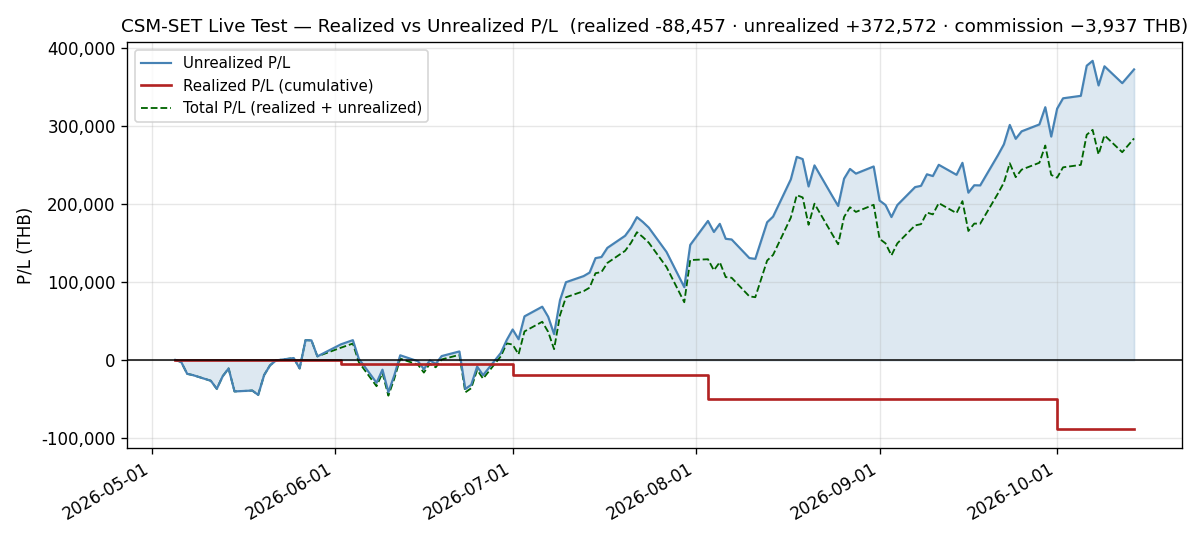
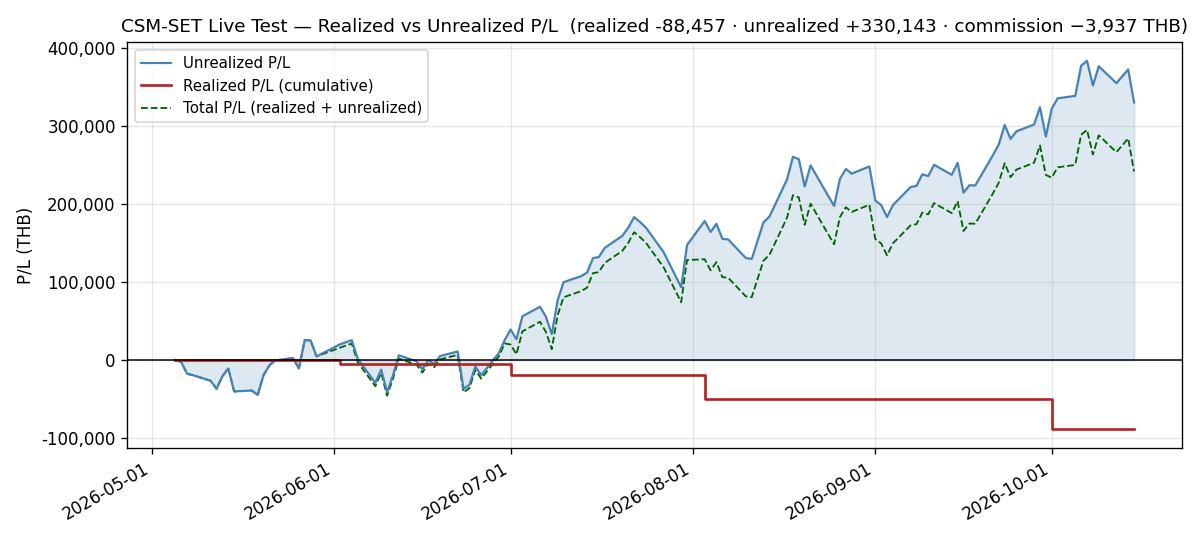
docs(live-test): add daily log for 2026-10-15 — NAV −3.03%, the largest session loss since 2026-09-01; no name rose
NAV 1,360,075.89 THB (−42,429.00, −3.0252%), Total Return on NAV +21.44%,
breadth 0 up / 9 down / 1 flat. SMT −7.14% is its worst session since it
entered the book on 2026-08-03. ETRON's excess narrowed to 14,933.44 THB by
losing value; CNT's gap under the floor deepened to 12,311.79 THB (both
accepted, TK-0279). The first scheduled refresh on the image rebuilt
2026-10-14 (lock b1fdf98) ran clean. pnl.csv +1 row (112), the P/L chart
regenerated (only its hash moved), graphs README History, header and check
rows updated.

Claude-Session: https://claude.ai/code/session_01VKyqnmKmz6Hh9ErHRFMhFr

diff --git a/docs/live-test/daily/2026-10-15.md b/docs/live-test/daily/2026-10-15.md
@@ -1,0 +1,171 @@
+# Daily Log — 2026-10-15 (Thursday)
+
+**As of:** 2026-10-15, Asia/Bangkok
+**Phase:** C — Extended Observation
+**Day:** 113 / 50 trading days remaining in 2026
+**Status:** 🔴 **PRE-REGISTRATION HISTORY — SEEN, NOT SCORED.** The operator's 2026-09-11 forward-only decision stands and **no scoring criteria have been pre-registered since**, so every figure below carries that label. 🔴 **NAV closes at 1,360,075.89 THB, down −42,429.00 (−3.0252%)** with no trades — **the largest session loss since 2026-09-01** and **the lowest close since 2026-10-01** — and stands **53,408.00 (−3.7785%) below the 2026-10-07 high**. Total Return on NAV is **+21.44%**. Breadth is **0 up, 9 down, 1 flat** against a SET that fell **−0.1821%**. 🔴 **SMT −7.14% to 7.15, its worst session since it entered the book on 2026-08-03**, supplied 26.44% of the loss, and the three ETRON names together 57.67%. 🔴 **CNT −3.77% to 3.06, its worst session and lowest close since it entered the book**, and **its gap under the 5% floor is the deepest of the breach at 12,311.79 THB**. 🟢 **ETRON's excess narrowed to 14,933.44 THB, its narrowest since 2026-10-02**, by losing value, not by a trade. 🟢 **The first scheduled refresh on the rebuilt image ran clean.**
+
+---
+
+## Execution Summary
+
+**No trades today.** The October rotation was executed at the **2026-10-01 ATO** (SELL MGC, BUY CNT; `configs/live_portfolio.yaml` at `715eeb3`), so the file is unchanged since then and remains valid. Realized P/L for the session is **0.00 THB** and no commission was paid. **Neither end of the band creates a trade, and neither does the sector cap**: both are applied when the book is constructed, and there is no high-water-mark rule. The next rebalance evaluation is **2026-10-30**, nine sessions away.
+
+---
+
+## Portfolio Snapshot
+
+> 🔴 **Every figure in this section is PRE-REGISTRATION HISTORY — NOT SCORED.** It is produced from the **reconstructed series** (`csm.adapters.hooks._reconstruct_live_equity`, which reprices `configs/live_portfolio.yaml` against `data/processed/prices_latest.parquet`) and reconciled against **`db_gateway.daily_performance`**. Where a number below is quoted from a stored series, the series is named.
+
+`Avg Cost` is the commission-inclusive per-share basis carried from `configs/live_portfolio.yaml` (4-decimal precision); `Cost Basis = shares × Avg Cost`, and `U.PL % = MV / Cost Basis − 1`. Per-symbol values reproduce the broker statement exactly.
+
+| # | Symbol | Shares | Avg Cost | Last Price | Market Value (THB) | Cost Basis (THB) | U.PL % |
+|---|--------|-------:|---------:|-----------:|--------------------:|-----------------:|-------:|
+| 1 | KCE | 2,600 | 39.0655 | 74.75 | 194,350.00 | 101,570.30 | +91.35% |
+| 2 | GUNKUL | 30,800 | 2.9246 | 4.96 | 152,768.00 | 90,077.68 | +69.60% |
+| 3 | INSET | 42,000 | 3.0848 | 4.54 | 190,680.00 | 129,561.60 | +47.17% |
+| 4 | HANA | 3,000 | 35.8070 | 50.25 | 150,750.00 | 107,421.00 | +40.34% |
+| 5 | IRPC | 56,600 | 2.3037 | 2.88 | 163,008.00 | 130,389.42 | +25.02% |
+| 6 | EASTW | 24,000 | 4.2672 | 5.00 | 120,000.00 | 102,412.80 | +17.17% |
+| 7 | EPG | 17,300 | 5.9099 | 6.50 | 112,450.00 | 102,241.27 | +9.98% |
+| 8 | SMT | 20,400 | 5.8097 | 7.15 | 145,860.00 | 118,517.88 | +23.07% |
+| 9 | FORTH | 5,300 | 16.1270 | 13.80 | 73,140.00 | 85,473.10 | −14.43% |
+| 10 | CNT | 18,200 | 3.3456 | 3.06 | 55,692.00 | 60,889.92 | −8.54% |
+
+### Portfolio summary
+
+| Metric | Value |
+|--------|-------|
+| Total Cost Basis | 1,028,554.97 THB |
+| Total Market Value | 1,358,698.00 THB |
+| Unrealized P/L | +330,143.03 THB (+32.10%) |
+| Realized P/L (today) | **0.00 THB** |
+| Realized P/L (cumulative, since inception) | **−88,456.67 THB** |
+| Commission paid (cumulative) | **−3,936.97 THB** |
+
+### Account summary
+
+| Metric | Value |
+|--------|-------|
+| Remaining Cash | 1,377.89 THB |
+| Total NAV | 1,360,075.89 THB |
+| Total Return on NAV | +21.44% |
+
+> **Cost-basis note:** Total Cost Basis is unchanged at **1,028,554.97 THB** since the 2026-10-01 rotation, and the reconciliation delta against Σ per-symbol (`shares × avg_cost`, 4-dp) is **0.00 THB**.
+>
+> ⚠ **Above/below cost: 8 up / 2 down, unchanged**, with only **FORTH** and **CNT** below. 🔴 **CNT's −8.54%** is its lowest since it entered the book, past the −4.95% of 2026-10-14. **SMT's +23.07%** is its lowest since 2026-10-05, **KCE's +91.35%** its lowest since 2026-09-28, and **FORTH's −14.43%** its lowest since 2026-10-05.
+>
+> **Dispersion narrowed to 105.78pp** (KCE +91.35% to FORTH −14.43%), from 110.93pp, the narrowest since 2026-10-02: the leader KCE lost **6.39pp** of cost and the laggard FORTH lost **1.24pp**.
+>
+> **Total P/L check:** realized + unrealized = −88,456.67 + 330,143.03 = **+241,686.36 THB**, down from +284,115.36 by exactly the −42,429.00 session move.
+
+---
+
+## Day-over-Day Change (vs Wednesday October 14)
+
+| Symbol | Oct 14 Close | Oct 15 Close | Change | Change % | MV Contribution (THB) |
+|--------|-------------:|-------------:|-------:|---------:|----------------------:|
+| EASTW | 5.00 | 5.00 | 0.00 | 0.00% | 0.00 |
+| GUNKUL | 4.98 | 4.96 | -0.02 | -0.40% | -616.00 |
+| FORTH | 14.00 | 13.80 | -0.20 | -1.43% | -1,060.00 |
+| CNT | 3.18 | 3.06 | -0.12 | -3.77% | -2,184.00 |
+| IRPC | 2.92 | 2.88 | -0.04 | -1.37% | -2,264.00 |
+| EPG | 6.65 | 6.50 | -0.15 | -2.26% | -2,595.00 |
+| KCE | 77.25 | 74.75 | -2.50 | -3.24% | -6,500.00 |
+| HANA | 52.50 | 50.25 | -2.25 | -4.29% | -6,750.00 |
+| INSET | 4.76 | 4.54 | -0.22 | -4.62% | -9,240.00 |
+| SMT | 7.70 | 7.15 | -0.55 | -7.14% | -11,220.00 |
+| **Total** | | | | **-3.03%** | **-42,429.00** |
+
+**Breadth: 0 up, 9 down, 1 flat.**
+
+> The `Change %` on the Total row is the **market-value** change (−42,429.00 / 1,401,127.00 = −3.0282%), not the NAV change (−42,429.00 / 1,402,504.89 = −3.0252%). The two differ only because cash sits in the NAV denominator and not in the market-value one.
+
+**No name rose: nine fell and EASTW closed unchanged at 5.00**, the first session without a riser since 2026-10-08, when all ten fell. **SMT −7.14% (−11,220.00)** closed at **7.15** in its **worst session since it entered the book on 2026-08-03**, at its lowest close since 2026-10-05, and supplied 26.44% of the loss. **INSET −4.62% (−9,240.00)** and **HANA −4.29% (−6,750.00)** each had their worst session since 2026-09-01; INSET closed at its lowest since 2026-09-17 and HANA at its lowest since 2026-09-21. **KCE −3.24% (−6,500.00)**, its worst since 2026-10-12, closed at its lowest since 2026-09-28. **CNT −3.77% (−2,184.00)** closed at **3.06** in **its worst session and at its lowest close since it entered the book on 2026-10-01**. **EPG −2.26% (−2,595.00)**, **IRPC −1.37% (−2,264.00)**, **FORTH −1.43% (−1,060.00)** and **GUNKUL −0.40% (−616.00)** completed the fallers. The three ETRON names lost **24,470.00** together, 57.67% of the session. **The book fell −3.0252% against a SET that fell −0.1821%**, a **−2.8431pp** difference that is a same-session arithmetic result, not a performance comparison (Market Context).
+
+---
+
+## Market Context
+
+| Indicator | Value | Source |
+|-----------|-------|--------|
+| SET Index | 1,573.01 | tvkit (TradingView) |
+| SET Open / High / Low | 1,558.17 / 1,573.01 / 1,557.67 | tvkit |
+| SET 200-day SMA | 1,499.5689 | tvkit (TradingView) |
+| Regime Estimate | BULL | SET +4.90% above SMA200 |
+
+> ⚠ **This is context, NOT a benchmark comparison, and it must not be read as one.** `SET:SET` is a **price index**; the strategy series above is priced on **dividend-adjusted** bars (since `e04a292`, 2026-08-09). The two are not on the same basis, the difference is one-sided in the strategy's favour, and it is not small — measured 2026-09-11 over 2024-03-19 → 2026-09-10, the dividend adjustment is worth **+12.09 percentage points** on this universe, roughly **+4.8%/yr**. The engine's own benchmark loader is also given **no date bounds**, so it compares **600 index points — from 2024-04-25 in today's panel, a start that moves forward one session per session** — against a strategy series that starts at the 2026-10-01 `entry_date`. **No alpha, excess return or outperformance figure is computed anywhere in this log.**
+
+---
+
+## Regime State
+
+- **Detected regime:** BULL — SET (1,573.01) is above SMA200 (1,499.5689) by +4.8975%
+- **SMA200 position:** 1,499.5689 — SET closing at 1,573.01
+- **3-month return:** −2.99% (window-sensitive — see Notes)
+- **No regime-driven action.** The regime filter is evaluated at the month-end rebalance, not intra-month. The next evaluation is **2026-10-30**.
+
+**The SET path from the 2026-09-08 high reads 1,621.89 → 1,617.89 → 1,615.07 → 1,604.52 → 1,591.07 → 1,578.66 → 1,562.73 → 1,583.34 → 1,584.15 → 1,598.03 → 1,604.44 → 1,610.70 → 1,602.58 → 1,607.63 → 1,602.37 → 1,594.30 → 1,559.01 → 1,563.91 → 1,571.62 → 1,576.45 → 1,582.22 → 1,584.63 → 1,570.61 → 1,577.65 → 1,571.74 → 1,575.88 → 1,573.01** — a **−2.87 point, −0.1821%** session, the index's worst since 2026-10-12, closing at its lowest since 2026-10-12 and leaving it **−3.0138%** below the 2026-09-08 high. Today's range was **15.34 points**, against 14.02 the prior session; the index opened at 1,558.17 and closed at the session high. **Cushion fell 5.1998% → 4.8975%, a −0.3023pp step**, as SMA200 rose again to **1,499.5689** (+1.5808). **A BULL→BEAR crossing needs the index 73.44 points lower — a further −4.67% at today's SMA200.**
+
+The 3-month figure fell from −2.02% to −2.99%, its start bar moving from 2026-07-09 (1,608.30) to 2026-07-10 (1,621.55).
+
+---
+
+## Sector Concentration
+
+Groupings are those of the 2026-10-01 rotation (CONS for CNT, SET-official) and are unchanged today; percentages are directly comparable to the prior session for every sleeve.
+
+| Sector | Market Value (THB) | % of NAV | Limit | Status |
+|--------|--------------------:|---------:|-------|--------|
+| Energy & Utilities (ENERG) | 435,776 | 32.0406% | 35% | OK — 40,250.56 THB of headroom |
+| Electronic Components (ETRON) | 490,960 | 36.0980% | 35% | 🔴 **OVER — 14,933.44 THB, accepted known violation** |
+| ICT | 263,820 | 19.3974% | 35% | OK |
+| Construction Materials (CONMAT) | 112,450 | 8.2679% | 35% | OK |
+| Construction Services (CONS) | 55,692 | 4.0948% | 5% floor | 🔴 **UNDER — 12,311.79 THB, accepted known violation** |
+
+🟢 **ETRON's excess narrowed to its narrowest since 2026-10-02**, from the 24,553.29 of 2026-10-14, the furthest of the holding period. It fell **−0.6527pp to 36.0980%**, its lowest weight since 2026-10-02, and the excess shrank **24,553.29 → 14,933.44 THB**: the sleeve's market value fell 24,470.00 (SMT −11,220.00, HANA −6,750.00, KCE −6,500.00) while the cap fell 14,850.15 with NAV. **It narrowed by losing value, not by a trade, and it remains over the cap.** [[TK-0279]]
+
+🔴 **CNT's gap is the deepest of the breach**, past the 12,249.24 of 2026-10-14. CONS fell **−0.0318pp to 4.0948%**, the lowest weight of the breach, and the gap grew **12,249.24 → 12,311.79 THB**: CNT's −2,184.00 outweighed a floor that fell 2,121.45 with NAV. **CNT clears at 3.7721, +23.27%.** [[TK-0279]]
+
+**ENERG rose +0.7640pp to 32.0406%**, its highest since 2026-10-05, although none of its names rose: the sleeve lost 2,880.00 (−0.66%) while NAV lost 3.03%. **ICT fell −0.1476pp to 19.3974%** on INSET, its lowest since 2026-10-05. **CONMAT rose +0.0651pp to 8.2679%** because EPG fell less than NAV. The two large sleeves hold **68.1386% of NAV** together.
+
+**At the ceiling end, KCE remains the largest position** — **14.2896%**, 9,661.38 THB inside the 15% ceiling, over at **79.1217 (+5.85%)** — 3,670.00 THB above INSET, at **14.0198%**, 13,331.38 THB inside, over at **4.9134 (+8.22%)**. 🟢 **At the floor end, FORTH is 5.3776%, 5,136.21 THB above the 5% floor, and goes under at 12.7799 (−7.39%).**
+
+---
+
+## Risk Notes
+
+1. 🔴 **PRE-REGISTRATION HISTORY — SEEN, NOT SCORED (operator decision, 2026-09-11, unchanged).** The track record restarts forward-only, and **scoring criteria are still pending an operator pre-registration**: checked for this log across the strategy repo, the ticket store and the umbrella, and **none has been recorded**. The EMA100 definition remains deferred to that pre-registration (operator decision D1, 2026-09-30).
+2. 🔴 **NAV fell −42,429.00 (−3.0252%) to 1,360,075.89 — the largest session loss since 2026-09-01** (−43,649.00, −3.3129%), in THB and in percent, and **the lowest close since 2026-10-01** (`daily_performance`). It stands **53,408.00 (−3.7785%) below the 2026-10-07 high**. Total Return on NAV is **+21.44%**.
+3. 🔴 **ACCEPTED KNOWN VIOLATION — ETRON 36.0980%, 14,933.44 THB over the 35% cap** (operator decision D2), **its narrowest excess since 2026-10-02**. It narrowed from 24,553.29 without a trade, as SMT, HANA and KCE led the decline. **No action is recommended and none has been sized.** [[TK-0279]]
+4. 🔴 **ACCEPTED KNOWN VIOLATION — CNT 4.0948%, 12,311.79 THB under the 5% floor and the whole CONS sleeve** (D2), **the deepest of the breach**. It widened from 12,249.24 as CNT's −3.77% outweighed the floor's fall; CNT clears at **3.7721 (+23.27%)**. [[TK-0279]]
+5. 🟢 **The first scheduled refresh on the rebuilt image ran clean.** The container was **recreated at 2026-10-14T12:32:14Z** (19:32 BKK) on an image rebuilt for **dependency updates only** (lock `b1fdf98`). Before the recreate, the code under `/app` (`src`, `api`, `ui`) was checked byte-identical to the tree in both the old and the new image, and all 17 compose environment keys matched the old container's by hash. The private-mode compose files were used, so the scheduler started (12:32:31Z) and the holiday poll ran 30 seconds after boot as `api/scheduler/jobs.py:522` codes it. **The 2026-10-15 18:00 firing then completed with 211 symbols and 0 failures** (Notes). The superseded image is kept under a rollback tag.
+6. 🟢 **`equity_curve` and `daily_performance` agree on the new day**, both **1,360,075.89**. The 2026-10-01 rows still differ by 2,385.81 by design (post-trade against pre-trade).
+7. 🟢 **Today's `daily_return` (−3.0252%) equals this log's headline.** ⚠ `cumulative_return` is anchored to the 2026-10-01 `entry_date` and reads **+0.58%** against a true **+21.44%**, and `combined_drawdown` now reads **−3.78%** — the maximum drawdown inside the post-`entry_date` window, **set today** and equal to today's distance from the high (it read −2.23% from 2026-10-08). Both are the documented truncations, not new defects.
+8. 🟢 **Circuit-breaker buffer 21.77% of NAV.** The 5% breaker trips at **1,064,000 THB**; NAV sits **+296,075.89 above it**. **NAV is 3.78% off peak.** The rolling `circuit_breaker.trigger_threshold` is −10% over 60 days; −3.78% is clear.
+9. 🟢 **The refresh ran clean**: attempt 1 recovered all 201 universe symbols (`requested=201 recovered=201 still_failing=0`) in **123.285s**, and **no symbol failed** (`failures=0`, `held_symbols_failed=0`). The container has not restarted since the 2026-10-14 recreate.
+10. 🟢 **The uncredited dividend total holds at 8,927.00 THB** — KCE 1,560.00, INSET 2,100.00, MGC 2,208.00, FORTH 795.00, IRPC 2,264.00. **0.66% of NAV** and **3.69%** of the +241,686.36 total P/L. There is still no dividend-accrual path anywhere in the book. Carried to the operator's October decision.
+11. **INFRA (carried) — the container publishes `:8100` on all interfaces while private-mode auth is disabled.** `CSM_API_KEY` is absent from the container environment and `CSM_PUBLIC_MODE=false`. **Risk tier: low-moderate and LAN-scoped.** Two low-risk options, operator's call: bind to `127.0.0.1:8100:8000`, or set `CSM_API_KEY`. **The 2026-10-14 recreate (Risk Note 5) kept the binding as it was** — it was a dependency rebuild, not this change — so the first option still needs its own recreate. **Forty-fifth consecutive log.**
+12. ⚠ **DOC — the `csm-set-daily-log` skill's `daily_return` guidance remains stale.** Its Step 3 still calls the field *"an open defect, not yet fixed in code"*; **it was fixed 2026-09-02**. Today `daily_return` reads **−3.0252%** and agrees with this log's headline exactly. **Twenty-seventh log to carry this.**
+13. **Open decisions carried to the October evaluation (2026-10-30, nine sessions away)**: the EMA100 definition (D1), the drift question at every end of the bands (Risk Notes 3, 4; [[TK-0279]]), fix-notional-not-shares, restate-vs-cutover for price history, and dividend accrual (Risk Note 10).
+
+---
+
+## Notes
+
+- **Scheduled refresh completed via APScheduler with zero failures.** `"Scheduled daily_refresh completed"` at **2026-10-15T11:02:05Z** (18:02 BKK) — the 18:00 cron firing (`cron[... day_of_week='mon-fri', hour='18', minute='0']`, started 11:00:00Z), not a manual `POST /api/v1/scheduler/run/daily_refresh`. Receipt: `symbols_fetched=211, failures=0, duration_seconds=123.285, held_symbols_fetched=10, held_symbols_failed=0, retry_attempts_used=0, index_fetched=true`, corroborated by `results/.tmp/last_refresh.json`. The held phase ended `requested=10 recovered=10 still_failing=0` at 11:00:07Z. **2026-10-16 is a closure in the banked calendar**, so its 18:00 firing should skip the fetch as the 2026-10-13 firing did (`api/scheduler/jobs.py:317-338`); the next session is **Monday 2026-10-19**, with its firing at **18:00 +07**.
+- **The container has run since the 2026-10-14 recreate** (`Created` 2026-10-14T12:32:14Z, `StartedAt` 12:32:16Z, no restart since; image `e71f1e0b9d6c`), and the host has not rebooted since 2026-10-06 (`uptime -s` 2026-10-06 10:46:02).
+- **`SET:THCOM` was fetched with 600 bars again.**
+- **The price panel and the prior log agree on all ten names**, so **nothing was restated**.
+- **The panel's row count fell 918 → 917**, every row still carries a 09:55 Bangkok stamp, and the column count is unchanged at **211**, with no duplicated session date.
+- **Row-integrity checks pass.** `db_csm_set.equity_curve` holds **exactly one row per trading day at `00:00:00+00`** — 112 rows, 112 dates, none off midnight — and today's row equals `daily_performance.total_value`.
+- **`configs/live_portfolio.yaml` is unchanged** since the 2026-10-01 rotation (`715eeb3`).
+- **The P/L identity holds and its residual is unchanged.** `realized_cum + unrealized − (NAV − starting_nav)` = −88,456.67 + 330,143.03 − 240,075.89 = **1,610.47 THB**, the value it stepped to at the 2026-10-01 rotation.
+- **Every figure was verified rather than asserted.** Σ position market value equals Total Market Value exactly (1,358,698.00); **Total NAV (1,360,075.89) equals `db_gateway.daily_performance.total_value` to the satang**; Σ (shares × price change) equals the market-value change (−42,429.00) exactly; the sector table sums to Total Market Value exactly; Σ per-symbol cost basis matches Total Cost Basis with a **0.00** delta; the position count is 10. All money arithmetic used `Decimal` with explicit half-up rounding (ETRON **36.0980%**, **14,933.44 THB** over the cap; CNT **4.0948%**, **12,311.79 THB** under a 68,003.79 floor, clearing at **3.7721**; FORTH **5.3776%**, under at **12.7799**; KCE **14.2896%**, over at **79.1217**; INSET **14.0198%**, over at **4.9134**).
+- **Realized P/L and commission ledger — both unchanged, no trades today.** Realized cumulative **−88,456.67 THB** (2026-06-02 −4,351.87 · 2026-07-01 −14,964.06 · 2026-08-03 −29,775.45 · 2026-10-01 −39,365.29). Commission cumulative **−3,936.97 THB**.
+- **Capital events to date, unchanged.** `starting_nav` 1,120,000 after 1,000,000 → 1,100,000 (2026-06-04, +100,000) → 1,120,000 (2026-08-03, +20,000). The 2026-10-01 rotation added no capital.
+- **Every superlative was computed, and each names its window.** SMT's worst session; INSET's, HANA's and KCE's worst-since dates; the lowest-since dates of closes and U.PL readings; the dispersion; and ETRON's, ENERG's and ICT's readings are **since 2026-08-03**, checked against all 51 prior published logs and, for prices, against the panel from 2026-08-03. CNT's worst session, low close and U.PL are measured since it entered the book on 2026-10-01, and the CONS readings over the breach that began on 2026-10-01. The session loss, the low close and the peak come from the full `db_gateway.daily_performance` series; the 2026-09-01 comparison is that date's repaired row, which matches its published log. The index figures are measured over bars fetched back to 2024-08-26.
+- **3-month return figure is window-sensitive.** −2.99% is measured over the trailing 66 bars from today's close (start bar 2026-07-10, 1,621.55) and moves materially with the start bar (Regime State). The regime estimate does not use it.
+- **Follow-ups for the next session (Monday 2026-10-19 18:00 +07).** (a) the 2026-10-16 firing — it should skip the fetch for the closure; (b) ETRON against the 35% cap — 14,933.44 THB over; (c) CNT against the 5% floor — it clears at 3.7721; (d) the ceiling — KCE over at 79.1217, INSET over at 4.9134; (e) FORTH against the 5% floor — under at 12.7799. **The four follow-ups from 2026-10-14 are closed above** — (a) Risk Note 3, (b) Risk Note 4, (c) and (d) Sector Concentration.
+- **Calendar.** 2026-10-15 was a trading session; the banked SET holiday calendar (`results/.tmp/set_holidays.json`, read at `captured_at 2026-10-15T23:33:01Z`) lists the next 2026 closures as **2026-10-16** and **2026-10-23**, and the October evaluation, its last trading day, is **2026-10-30**. No trading hours are stated anywhere in this log.
+- Data fetched via tvkit (TradingView, free tier) — all 10 held-symbol prices from the 18:00 BKK scheduled-cron refresh; SET Index context anchored explicitly to the 2026-10-15 bar. ⚠ **The vendor back-adjusts a symbol's entire history on an ex-dividend date**, so any prior-session price quoted here is the vendor's *current* view of that session and not necessarily what was published at the time.

diff --git a/docs/live-test/graphs/README.md b/docs/live-test/graphs/README.md
@@ -3,7 +3,7 @@
 _🟢 **All four PNGs are on ONE date — the September month-end, 2026-09-30.** The three **NAV** charts
 (`equity_curve`, `drawdown`, `monthly_returns`) were regenerated on 2026-09-30 from `nav_actual.csv` /
 `nav_twr.csv` extended to **102 points** (2026-05-04 → 2026-09-30). `pnl_realized_unrealized.png` is newer:
-regenerated on 2026-10-14 from `pnl.csv` (**111 rows**, through 2026-10-14; its newest realized step is the 2026-10-01 rotation's). ⚠ **The September rows of the two NAV CSVs
+regenerated on 2026-10-16 from `pnl.csv` (**112 rows**, through 2026-10-15; its newest realized step is the 2026-10-01 rotation's). ⚠ **The September rows of the two NAV CSVs
 come from `db_gateway.daily_performance`, not `equity_curve`** — IRPC's 2026-09-09 restatement rewrote the
 `equity_curve` rows it would otherwise have supplied; see the 2026-09-30 History entry. `pnl.csv` is built
 from the daily logs' figures (the un-restated `daily_performance` basis), so it does not agree with
@@ -241,14 +241,26 @@ restatement has rewritten `equity_curve` rows inside the month being appended, *
 | `monthly_returns.png` | May **+0.33%** · Jun **+1.44%** · Jul **+9.53%** · Aug **+5.68%** · Sep **+2.90%** (no flow in September, so the TWR and actual-NAV figures agree) |
 | **August bar is the TWR figure** | **+5.68%**, NOT the reported +7.40% and NOT the ex-injection +5.77%. Feeding `nav_actual.csv` instead reproduces the documented failure mode — **Jun +11.62%** and Aug +7.40% |
 | June bar vs the June review | must read **+1.44%**, not +11.62% |
-| `pnl_realized_unrealized.png` *(the 2026-10-14 PNG, through 10-14)* | realized **−88,456.67** · unrealized **+372,572.03** · commission **−3,936.97** THB; the realized line is **flat except at 2026-06-02, 2026-07-01, 2026-08-03 and 2026-10-01** — **four** steps. *(The 2026-10-12 PNG read the same realized and commission with unrealized +354,949.03 at 110 points; the 2026-10-09 PNG +376,567.03 at 109; the 2026-10-08 PNG +352,021.03 at 108; the 2026-10-07 PNG +383,551.03 at 107; the 2026-10-06 PNG +377,303.03 at 106; the 2026-10-05 PNG +338,709.03 at 105; the 2026-10-02 PNG +335,559.03 at 104; the 2026-10-01 PNG +322,278.03 at 103.)* *(The 2026-08-31 PNG read:* realized **−49,091.38** · unrealized **+248,232.35** · commission **−3,735.16** THB; the realized line is **flat except at 2026-06-02, 2026-07-01 and 2026-08-03** — **three** steps.) *(The superseded 2026-08-28 render showed −49,091.38 / +239,078.35 at 79 points; the 2026-08-27 one showed −49,091.38 / +245,069.35 at 78 points; the 2026-08-26 one showed −49,091.38 / +232,605.35 at 77 points; the 2026-08-25 one showed −49,091.38 / +197,671.35 at 76 points; the 2026-08-24 one showed −49,091.38 / +210,441.35 at 75 points; the 2026-08-21 one showed −49,091.38 / +249,619.35 at 74 points; the 2026-08-20 one showed −49,091.38 / +222,599.35 at 73 points; the 2026-08-19 one showed −49,091.38 / +257,693.35 at 72 points; the 2026-08-18 one showed −49,091.38 / +260,527.35 at 71 points; the 2026-08-17 one showed −49,091.38 / +231,713.35 at 70 points; the 2026-08-14 one −49,091.38 / +183,951.35 at 69 points; the 2026-08-12 one −49,091.38 / +129,844.35 at 67 points; the 2026-08-01 one −19,315.93 / +147,665.89 / −3,052.51 and only two steps.)* |
-| `pnl.csv` last row *(the CSV and the P/L PNG are in sync — see the header)* | 2026-10-14: realized **−88,456.67** · unrealized **+372,572.03** · total **+284,115.36** · commission **3,936.97** THB; **111 rows**, matching `equity_curve`'s 111 **in row count only** *(↻ this row read 2026-08-31 / 80 rows until 2026-10-02: the September daily runs extended the CSV without updating it; it is updated with each session's History entry since)* — the values diverge historically after the KCE, INSET, MGC *and* FORTH restatements (see the header caveat) |
+| `pnl_realized_unrealized.png` *(the 2026-10-15 PNG, through 10-15, rendered 2026-10-16)* | realized **−88,456.67** · unrealized **+330,143.03** · commission **−3,936.97** THB; the realized line is **flat except at 2026-06-02, 2026-07-01, 2026-08-03 and 2026-10-01** — **four** steps. *(The 2026-10-14 PNG read the same realized and commission with unrealized +372,572.03 at 111 points; the 2026-10-12 PNG read the same realized and commission with unrealized +354,949.03 at 110 points; the 2026-10-09 PNG +376,567.03 at 109; the 2026-10-08 PNG +352,021.03 at 108; the 2026-10-07 PNG +383,551.03 at 107; the 2026-10-06 PNG +377,303.03 at 106; the 2026-10-05 PNG +338,709.03 at 105; the 2026-10-02 PNG +335,559.03 at 104; the 2026-10-01 PNG +322,278.03 at 103.)* *(The 2026-08-31 PNG read:* realized **−49,091.38** · unrealized **+248,232.35** · commission **−3,735.16** THB; the realized line is **flat except at 2026-06-02, 2026-07-01 and 2026-08-03** — **three** steps.) *(The superseded 2026-08-28 render showed −49,091.38 / +239,078.35 at 79 points; the 2026-08-27 one showed −49,091.38 / +245,069.35 at 78 points; the 2026-08-26 one showed −49,091.38 / +232,605.35 at 77 points; the 2026-08-25 one showed −49,091.38 / +197,671.35 at 76 points; the 2026-08-24 one showed −49,091.38 / +210,441.35 at 75 points; the 2026-08-21 one showed −49,091.38 / +249,619.35 at 74 points; the 2026-08-20 one showed −49,091.38 / +222,599.35 at 73 points; the 2026-08-19 one showed −49,091.38 / +257,693.35 at 72 points; the 2026-08-18 one showed −49,091.38 / +260,527.35 at 71 points; the 2026-08-17 one showed −49,091.38 / +231,713.35 at 70 points; the 2026-08-14 one −49,091.38 / +183,951.35 at 69 points; the 2026-08-12 one −49,091.38 / +129,844.35 at 67 points; the 2026-08-01 one −19,315.93 / +147,665.89 / −3,052.51 and only two steps.)* |
+| `pnl.csv` last row *(the CSV and the P/L PNG are in sync — see the header)* | 2026-10-15: realized **−88,456.67** · unrealized **+330,143.03** · total **+241,686.36** · commission **3,936.97** THB; **112 rows**, matching `equity_curve`'s 112 **in row count only** *(↻ this row read 2026-08-31 / 80 rows until 2026-10-02: the September daily runs extended the CSV without updating it; it is updated with each session's History entry since)* — the values diverge historically after the KCE, INSET, MGC *and* FORTH restatements (see the header caveat) |
 | The August regeneration *(**done** 2026-08-12, **superseded** by the 2026-08-14, 2026-08-17, 2026-08-18, 2026-08-19, 2026-08-20, 2026-08-21, 2026-08-24, 2026-08-25, 2026-08-26, 2026-08-27, 2026-08-28 and then the 2026-08-31 render)* | ✅ satisfied — the current PNG title reads `realized -49,091 · unrealized +248,232 · commission −3,735 THB`, the series ends 2026-08-31 at 80 points, and the realized line steps **three** times. Verified by eye against the rendered image, not only from the generator's stdout |
 | Only ONE PNG may change on a P/L regeneration | ✅ `gen_pnl_chart.py:118` writes `pnl_realized_unrealized.png` and nothing else. Checksum the four PNGs before and after: the three NAV charts must be **byte-identical** and keep their 2026-08-01 mtimes. Verified 2026-08-14, 2026-08-17, 2026-08-18, 2026-08-19, 2026-08-20, 2026-08-21, 2026-08-24, 2026-08-25, 2026-08-26, 2026-08-27, 2026-08-28 and 2026-08-31 — only the P/L PNG's hash moved on all twelve |
 | P/L reconciliation | `realized_cum + unrealized − (NAV − capital)` = **1,610.47** from 2026-10-01 (**1,610.27** for 2026-08-03 → 2026-09-30, **1,609.61** for 2026-05-29 → 2026-07-31), and constant *within* each era; the 2026-10-01 step is **+0.20**, CNT's 4-dp `avg_cost` rounding. A *drifting* residual means a realisation was missed; the one-time **+0.66** step at the rotation is 4-dp `avg_cost` rounding — see above |
 | `commission_cum` | rises **only on the 7 fill dates** (05-05, 06-02, 06-04, 06-05, 07-01, 08-03, **10-01**); a rise on any other day means a non-trading day was credited with a fill |
 
 ## History
+
+**`pnl.csv` extended through 2026-10-15** on 2026-10-16, appending the **2026-10-15** row — one row,
+the ninth session of the rotated book. `realized_cum` and `commission_cum` are unchanged (no trade since
+the 2026-10-01 rotation), so the whole movement is the unrealized leg (+372,572.03 → **+330,143.03**,
+a **−42,429.00** session in which no held name rose). `total_pl` (**+241,686.36**) is its lowest since
+2026-10-01 and stands 53,408.00 below the +295,094.36 maximum of 2026-10-07. The reconciliation residual
+holds at **1,610.47**. **`pnl_realized_unrealized.png` was regenerated in the same session**, so the two
+artifacts end together at **112 points**; the four PNGs were checksummed (md5) before and after and the
+three NAV charts are byte-identical (`drawdown` 02a92127…, `equity_curve` 7b1c0816…, `monthly_returns`
+a661bb50…), with only the P/L chart's hash moving (018df1f0… → **b342b07a…**). Every point in the series
+remains **pre-registration history — seen, not scored** under the operator decision of 2026-09-11; no
+scoring criteria have been pre-registered since.
 
 **`pnl.csv` extended through 2026-10-14** on 2026-10-14, appending the **2026-10-14** row — one row,
 the eighth session of the rotated book. **There is no row for 2026-10-13**, a closure: the 18:00 firing
